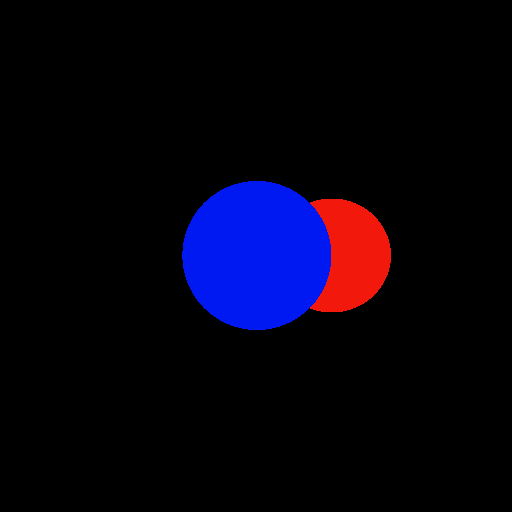
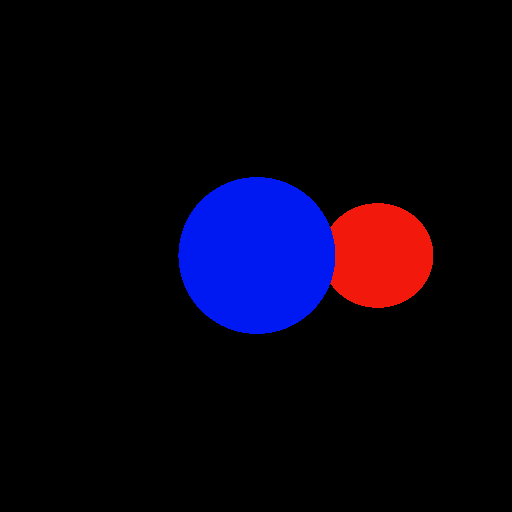
feat: small changes + rendering time

Changed region(s): [[0.3438, 0.3438, 0.8438, 0.6562]]

diff --git a/src/camera.rs b/src/camera.rs
@@ -93,9 +93,10 @@ impl Camera {
         let new_up = self.right.cross(&self.forward);
         let mut ray = Line::new(self.position, self.forward);
 
-        let mut hits: Vec<(RayCastHit, usize)> = Vec::new();
         //self.buffer.colorful_checkerboard();
-        // RAYCASTING PHASE
+
+        let time = std::time::Instant::now();
+
         if !self.perspective {
             for i in (-self.render_height / 2 + 1)..(self.render_height / 2) {
                 for j in (-self.render_width / 2)..(self.render_width / 2) {
@@ -150,7 +151,7 @@ impl Camera {
                 }
             }
         }
-        
+        println!("Rendering took: {}ms", time.elapsed().as_millis());
         self.buffer.save(path_specs.as_str());
     }
 

diff --git a/src/main.rs b/src/main.rs
@@ -63,9 +63,10 @@ fn main() {
 
     camera.perspective = true;
     camera.supersampling = false;
+    camera.pinhole_distance = 320.0;
 
     let mut scene = Scene::new();
-    let red_sphere = Sphere::new(Vector::new(128.5, 0.0, -200.0), 100.0);
+    let red_sphere = Sphere::new(Vector::new(228.5, 0.0, -300.0), 100.0);
     let blue_sphere = Sphere::new(Vector::new(0.5, 0.0, -100.0), 100.0);
     scene.add_primitive(Box::new(red_sphere), 0);
     scene.add_primitive(Box::new(blue_sphere), 1);
